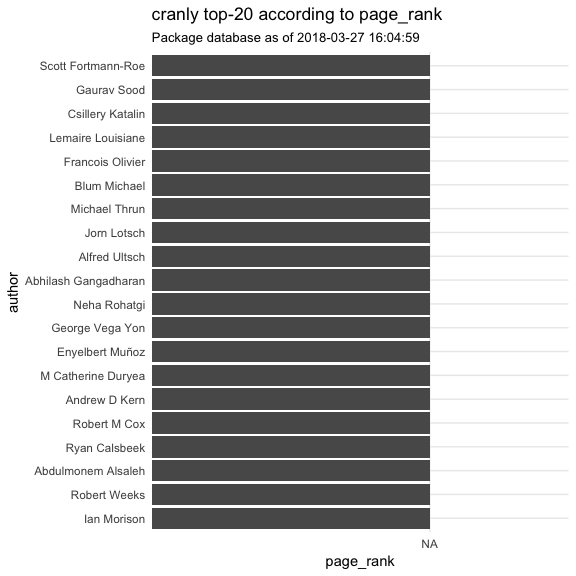
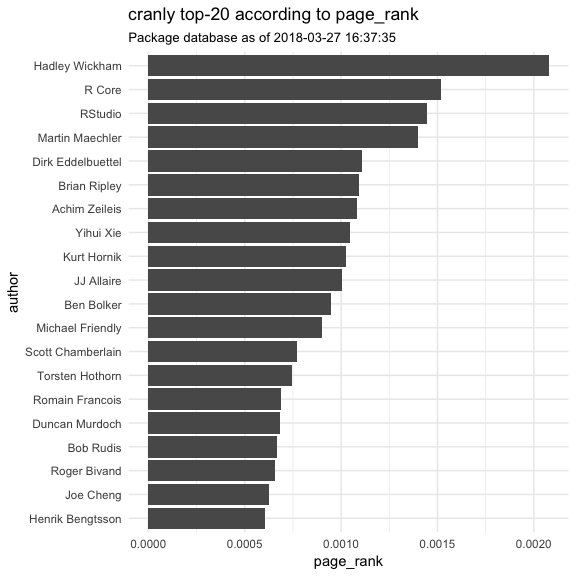
readme

Changed region(s): [[0.0312, 0.0, 0.7812, 0.9688], [0.4062, 0.0938, 0.9688, 1.0], [0.9062, 0.9375, 0.9688, 0.9688]]

diff --git a/README.md b/README.md
@@ -49,7 +49,7 @@ The CRAN database we use is from
 
 ``` r
 attr(package_db, "timestamp")
-#> [1] "2018-03-27 16:04:59 BST"
+#> [1] "2018-03-27 16:37:35 BST"
 ```
 
 #### Package directives networks
